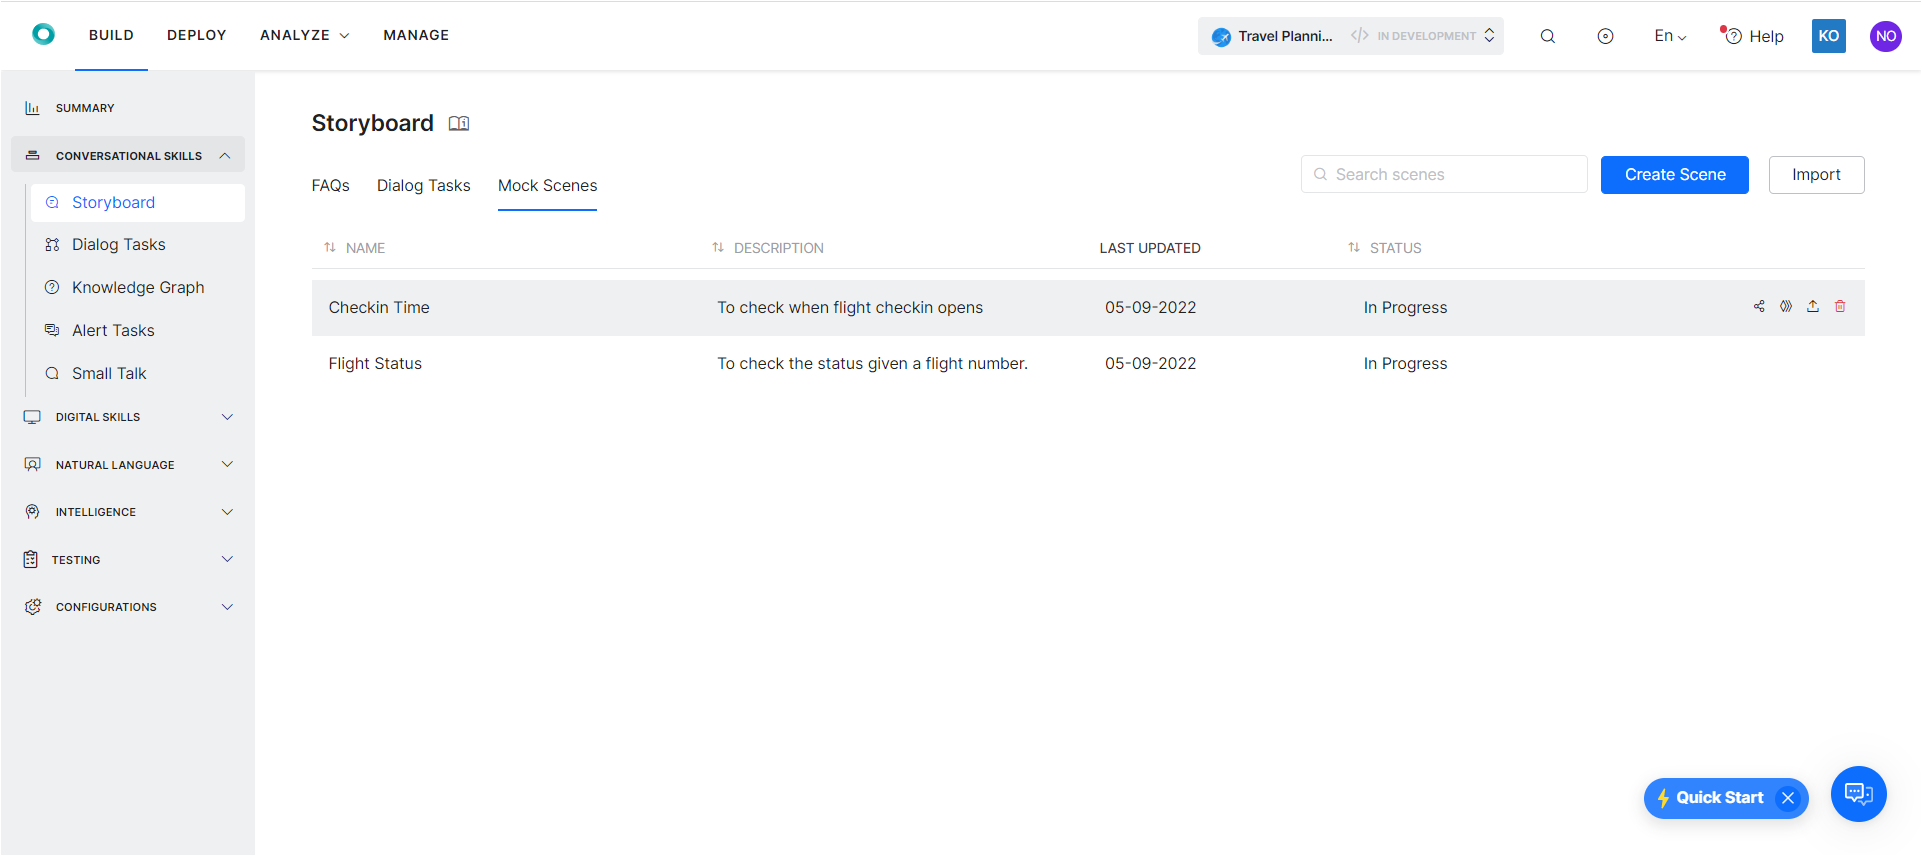
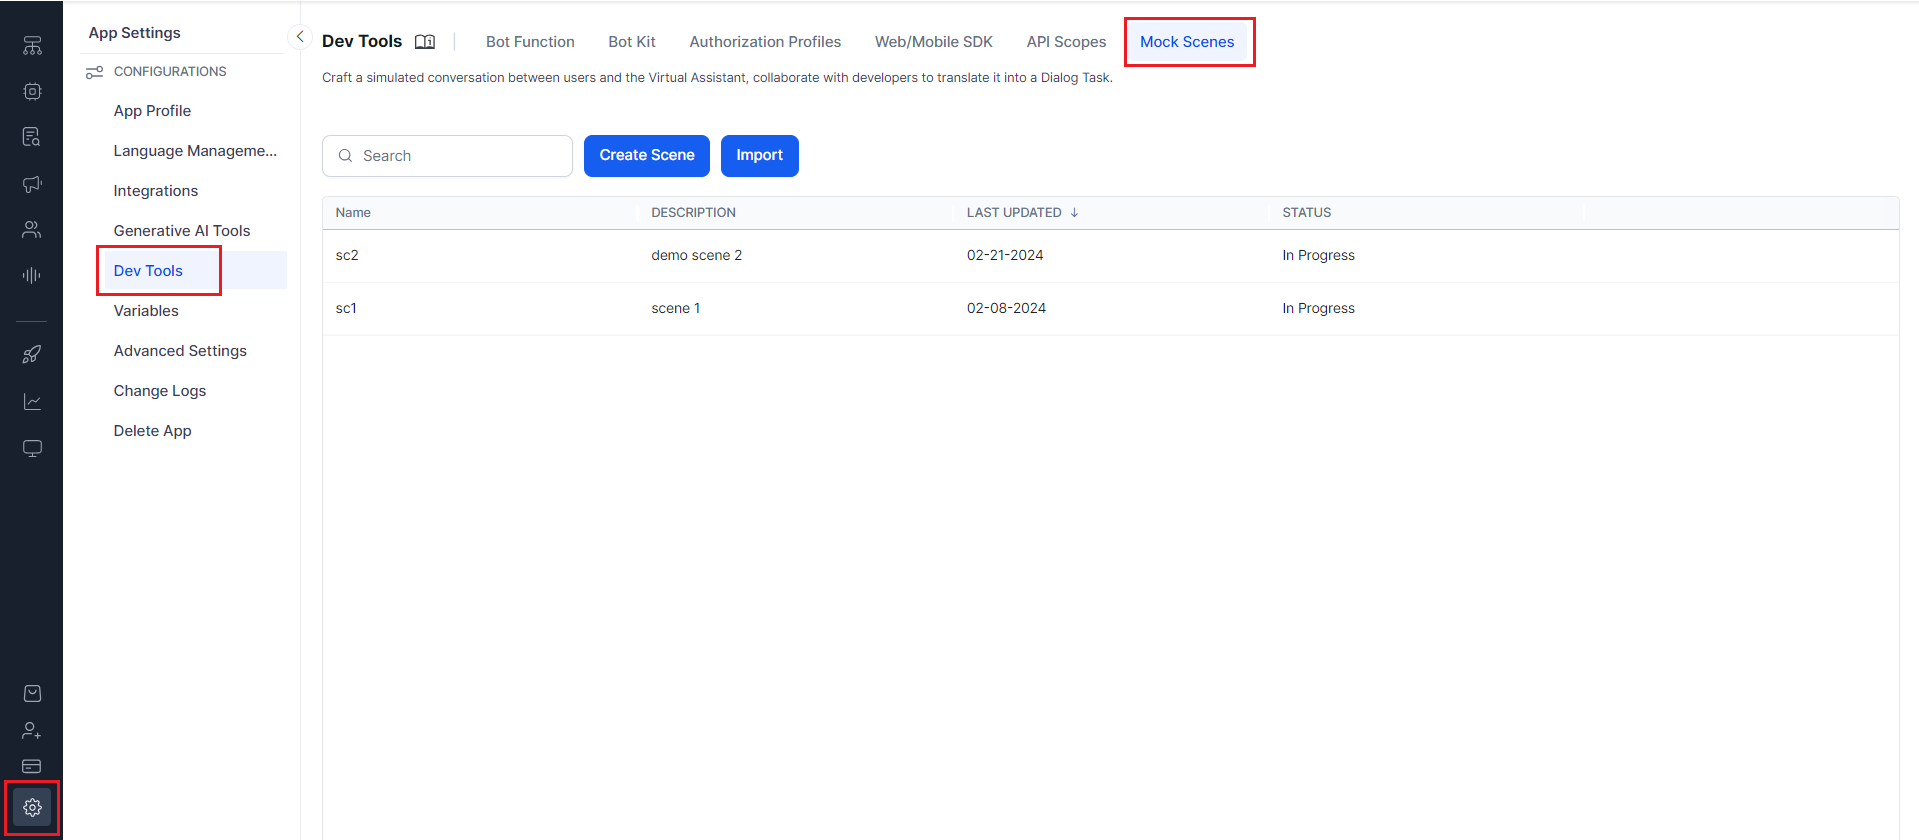
mock scenes

diff --git a/docs/xo/app-settings/mock-scenes.md b/docs/xo/app-settings/mock-scenes.md
@@ -41,7 +41,7 @@ The Mock Scenes area allows you to perform the following actions:
 
 To create a Mock Scene, please follow the steps below:
 
-1. On the **App Settings** page, select **Mock Scenes** from the left hand side menu and click **Create Scene**. If there are no existing scenes, this button is at the bottom of the screen, otherwise it is located at the top right.
+1. On the **App Settings** page, select **Dev Tools > Mock Scenes** tab and click **Create Scene**.
 2. On the _New Scene_ dialog box that opens up, enter a name in the **Scene Name** field and a description in the **Description** field.
 3. Enter a **Status**.
 4. Click **Proceed**.
@@ -53,23 +53,20 @@ The demo below shows you the basics of creating a new Mock Scene.
 
 ## Work with the Conversation Designer
 
-After you add a scene, you are presented with a blank **Conversation View**, where you can enter the user-VA messages. This is, essentially, an adapted version of the Conversation Designer, which is used to create Dialog Tasks. Even though the look is similar, you will notice that Mock Scenes provide options that are specifically focused on developing the conversation itself, without the business logic or training. This helps create a more seamless user experience and provides VA developers with a starting point for their work. 
+After you add a scene, you are presented with a blank **Conversation View**, where you can enter the user-VA messages. Mock Scenes provide options that are specifically focused on developing the conversation itself, without the business logic or training. This helps create a more seamless user experience and provides VA developers with a starting point for their work. 
 
 <img src="../images/mock-scenes-img3-blank-scene.png" alt="Conversation view - Blank scene" title="Conversation view - Blank scene" style="border:1px solid gray; zoom=70%;">
 
-To design a mock conversation scene, you can add _Bot_ and _User_ utterances, create conversation paths,link messages and scenes, add developer notes and collaborate using comments. You can also create a conversation timeline, using tags. 
+To design a mock conversation scene, you can add _Bot_ and _User_ utterances, create conversation paths, link messages and scenes, add developer notes and collaborate using comments. You can also create a conversation timeline, using tags. 
 
 The Conversation Designer comes with the following features to help you design the conversation:
 
 
 ### User and Bot Message Tabs
 
-
 #### User Tab
 
 This tab is used to enter possible messages from users either requesting information or providing input to a request by the virtual assistant. These messages can be:
-
-
 
 * **Plain text messages**. For example, in a Travel VA, _I want to know when check in opens for my flight._
 * **Attachments**. For example, in a Travel VA, to upload a flight reservation..
